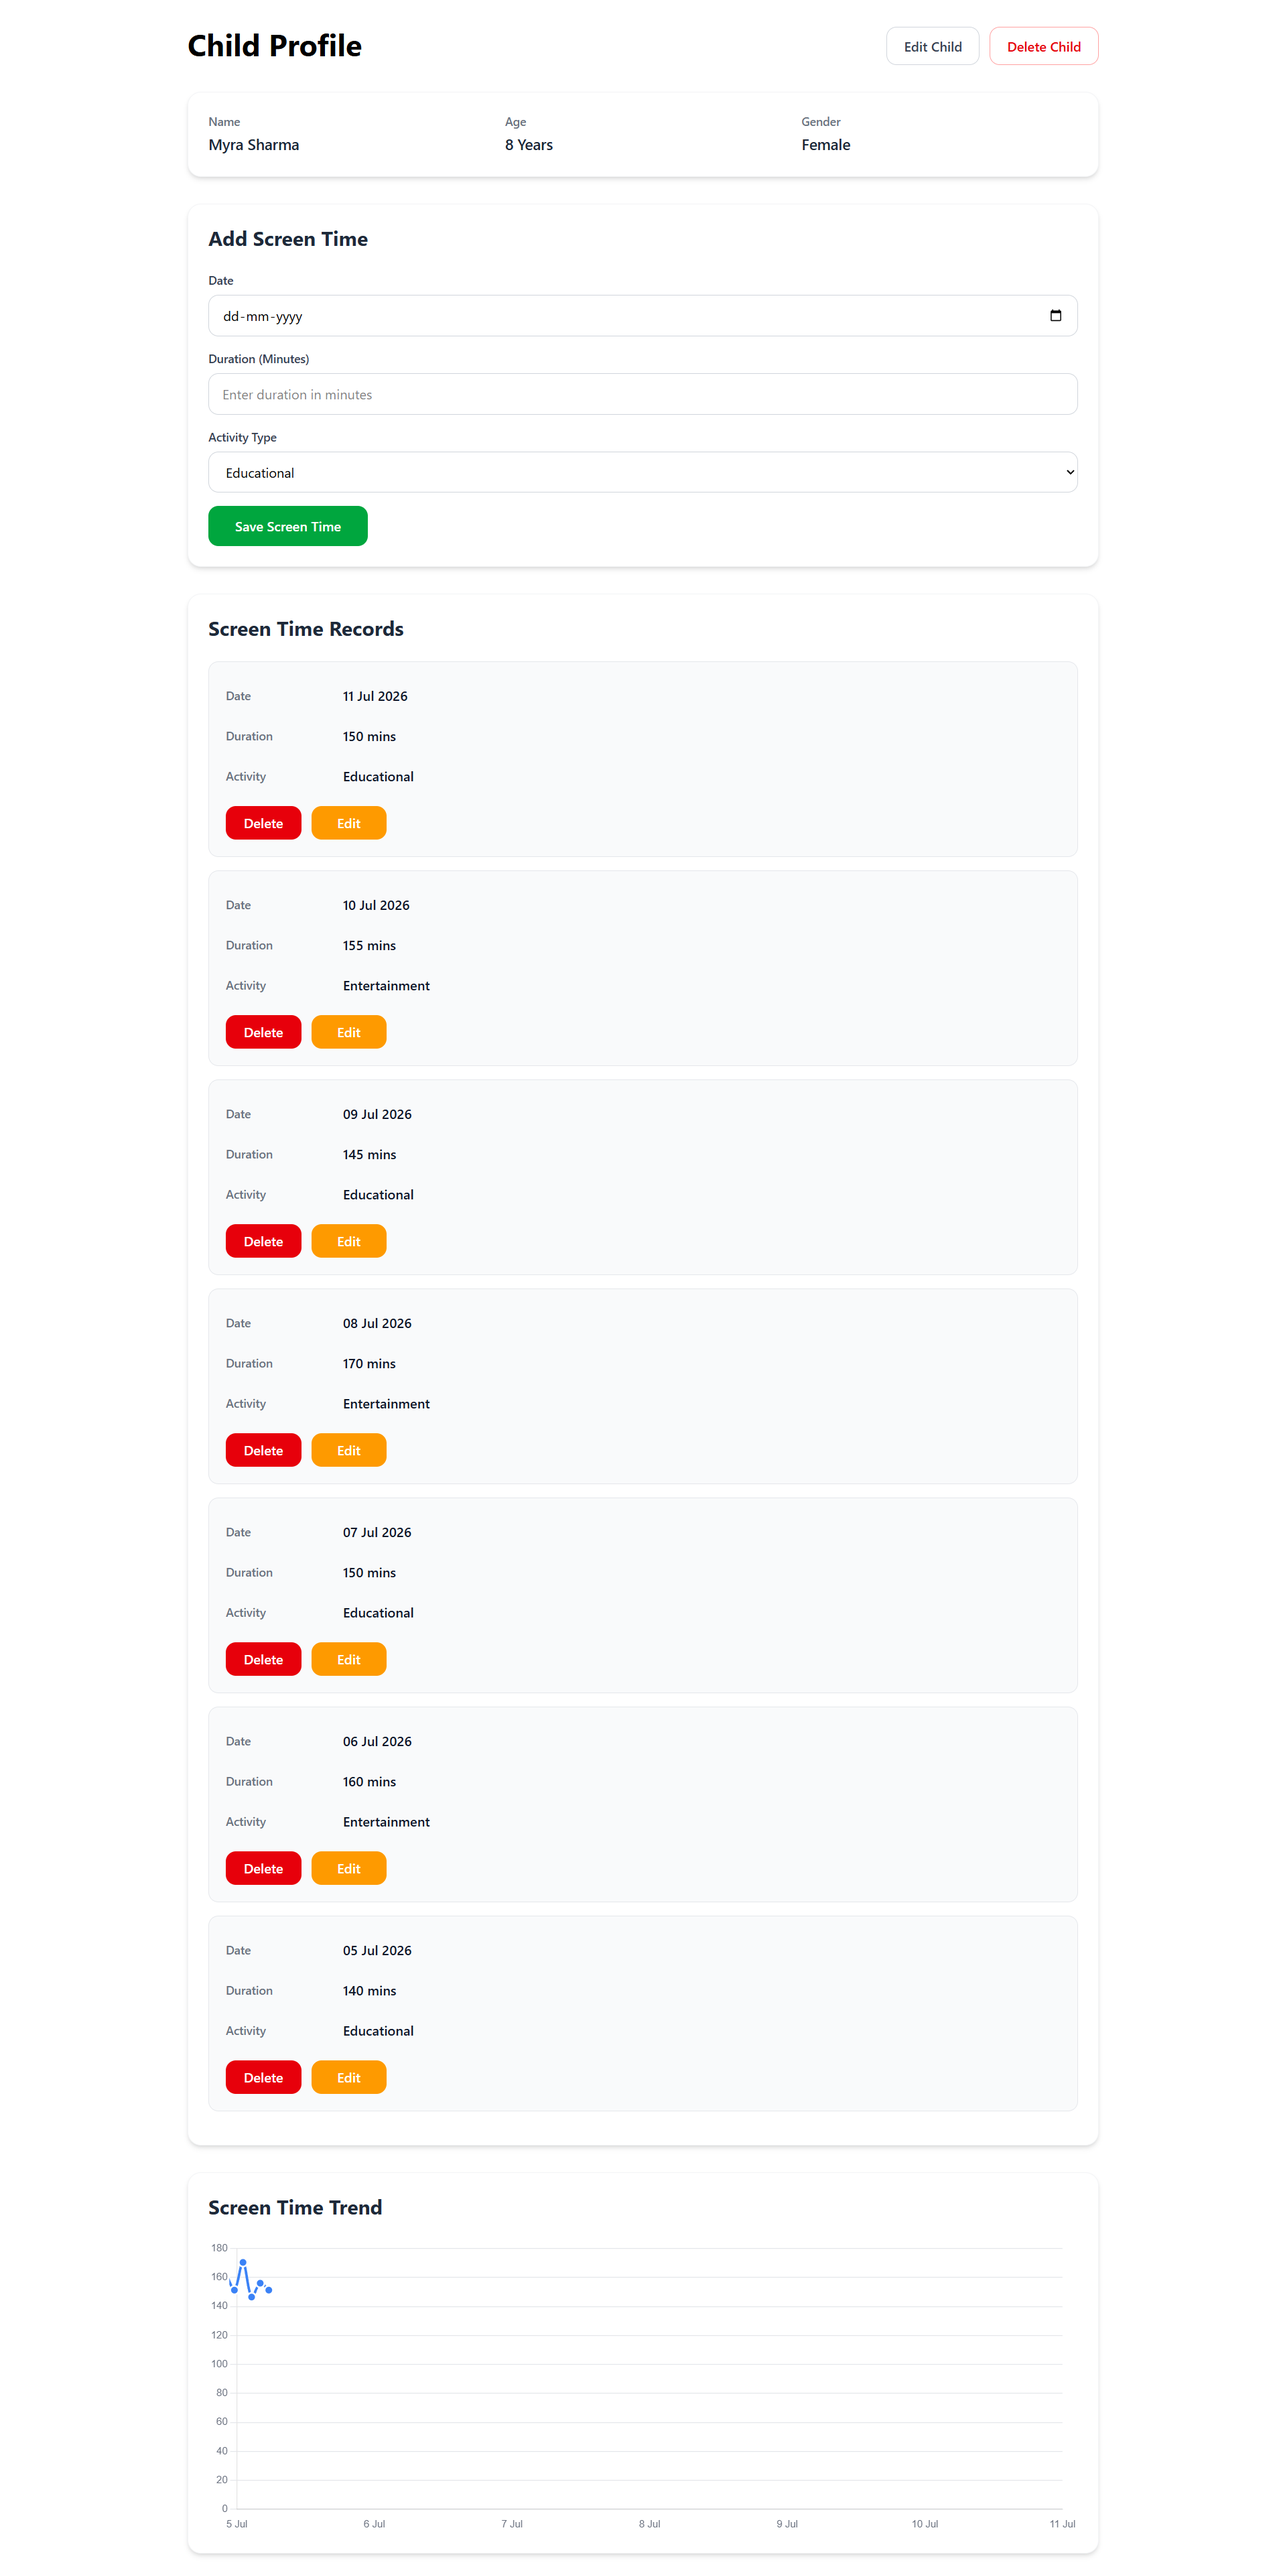
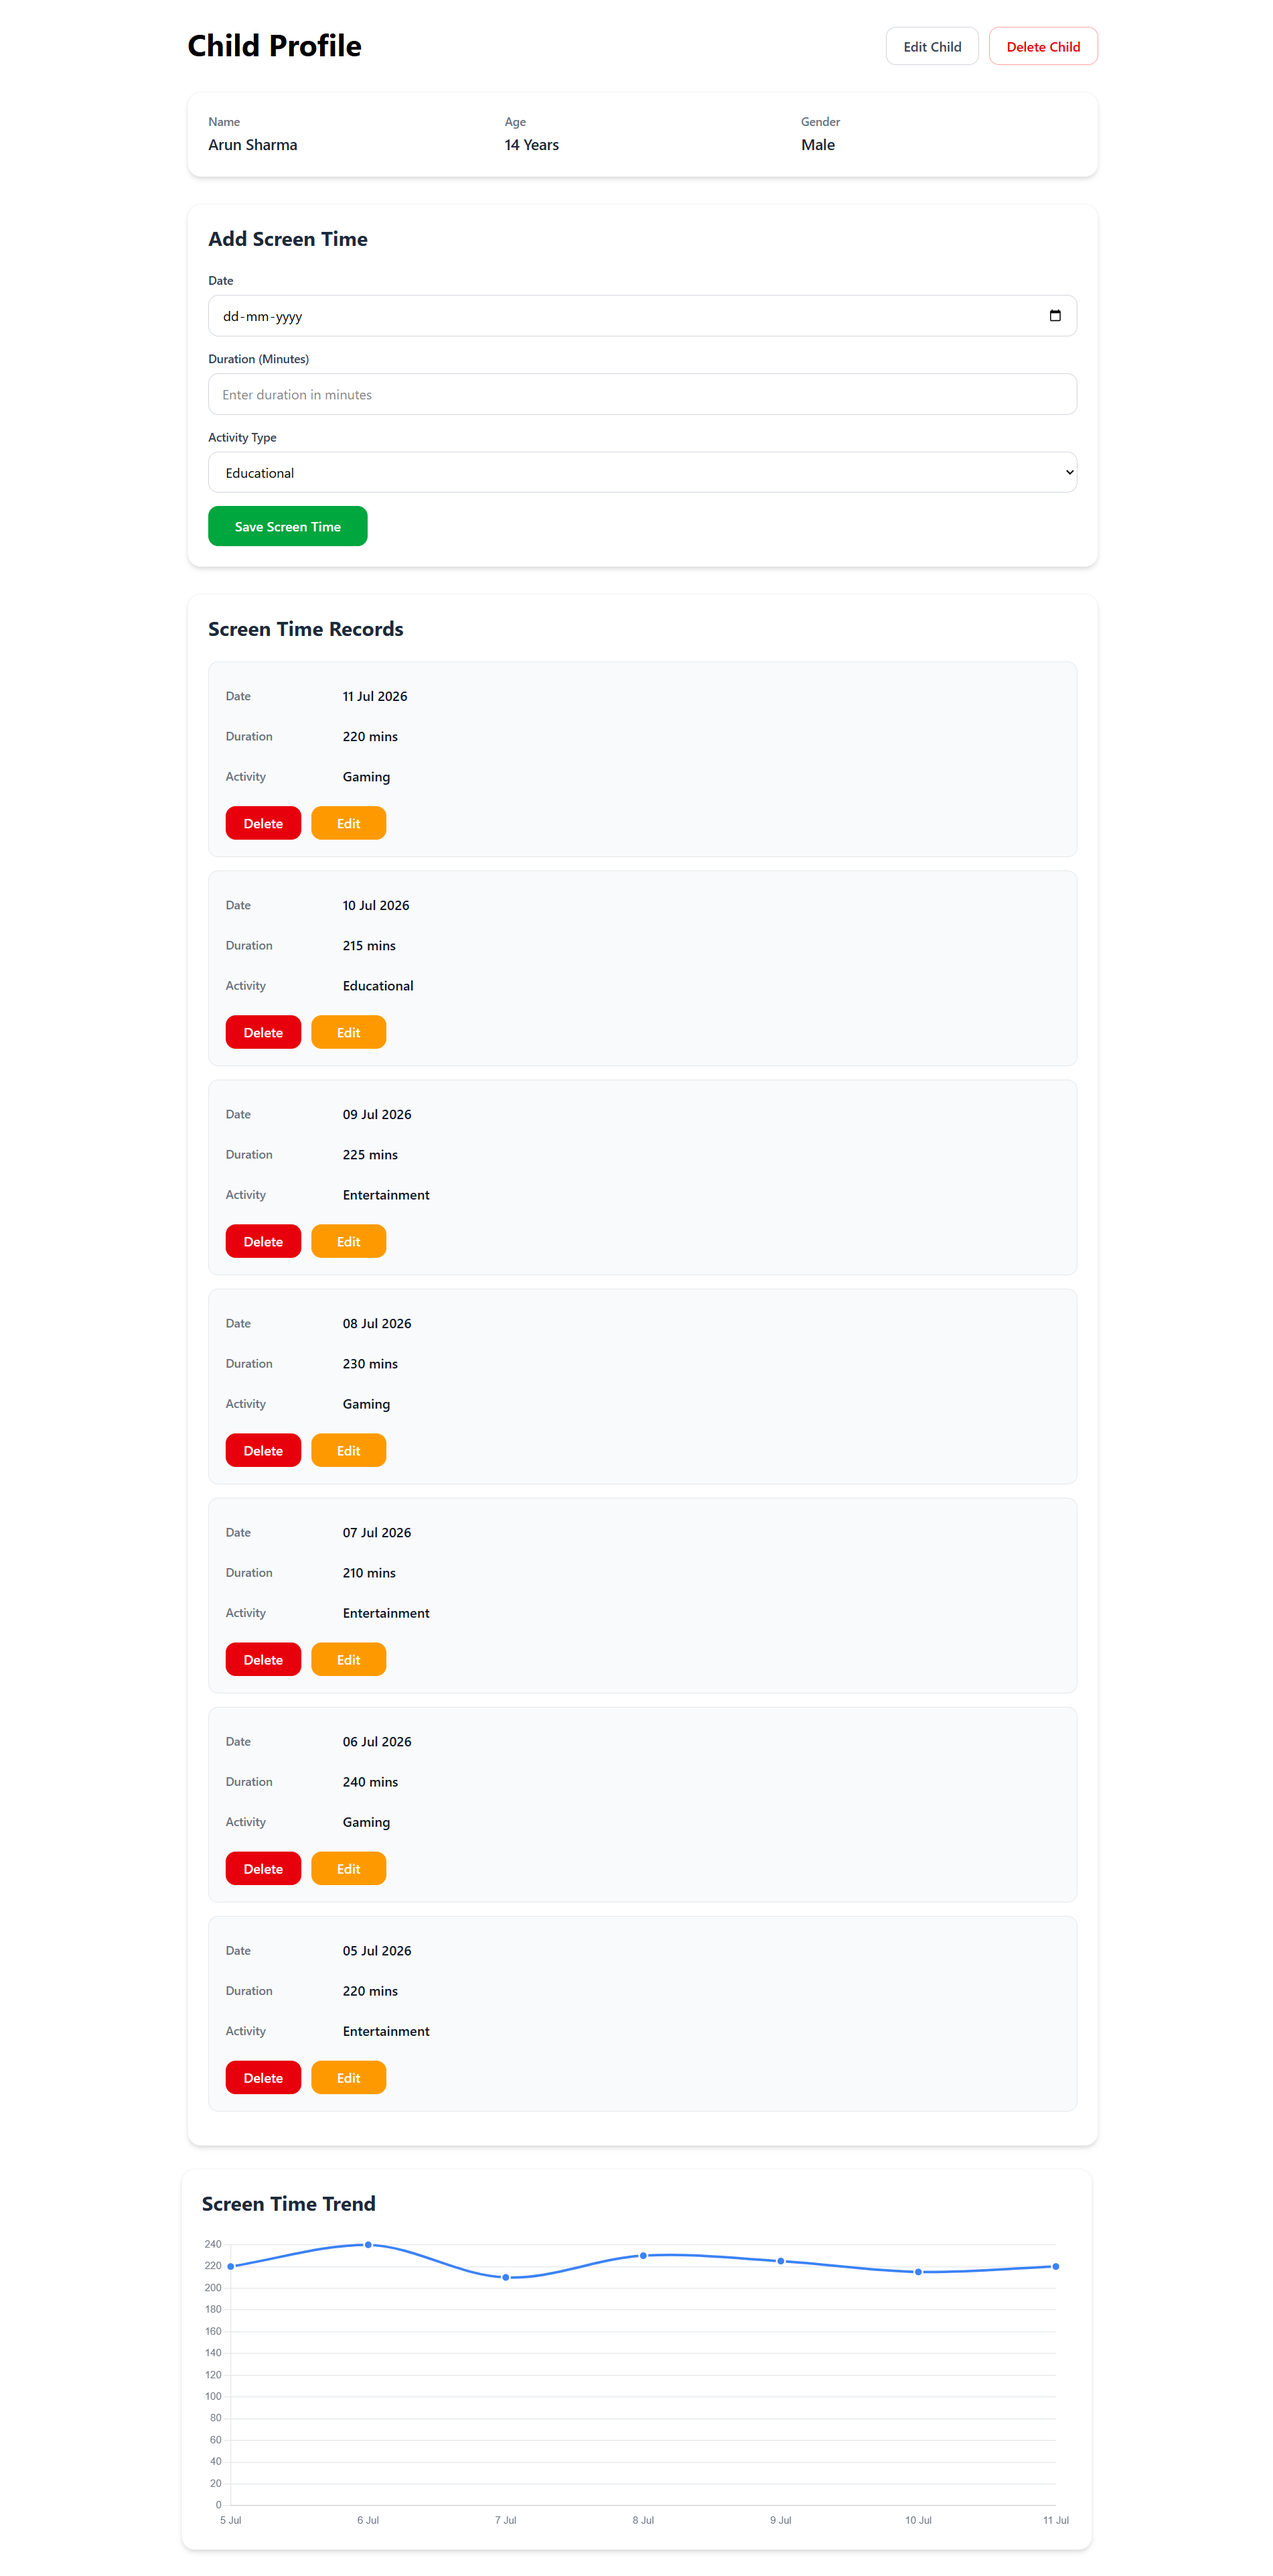
Enhance README with updated screenshots

diff --git a/frontend/src/pages/ChildProfile.jsx b/frontend/src/pages/ChildProfile.jsx
@@ -639,7 +639,7 @@ const ChildProfile = () => {
         isDeleting={isDeletingScreenTime}
       />
 
-      <SleepSection
+      {/* <SleepSection
         sleepData={sleepData}
         sleepLoading={sleepLoading}
         editingSleepId={editingSleepId}
@@ -702,7 +702,7 @@ const ChildProfile = () => {
         riskBadgeStyles={riskBadgeStyles}
         riskIcons={riskIcons}
         getRecommendationStyle={getRecommendationStyle}
-      />
+      /> */}
     </div>
   );
 };
